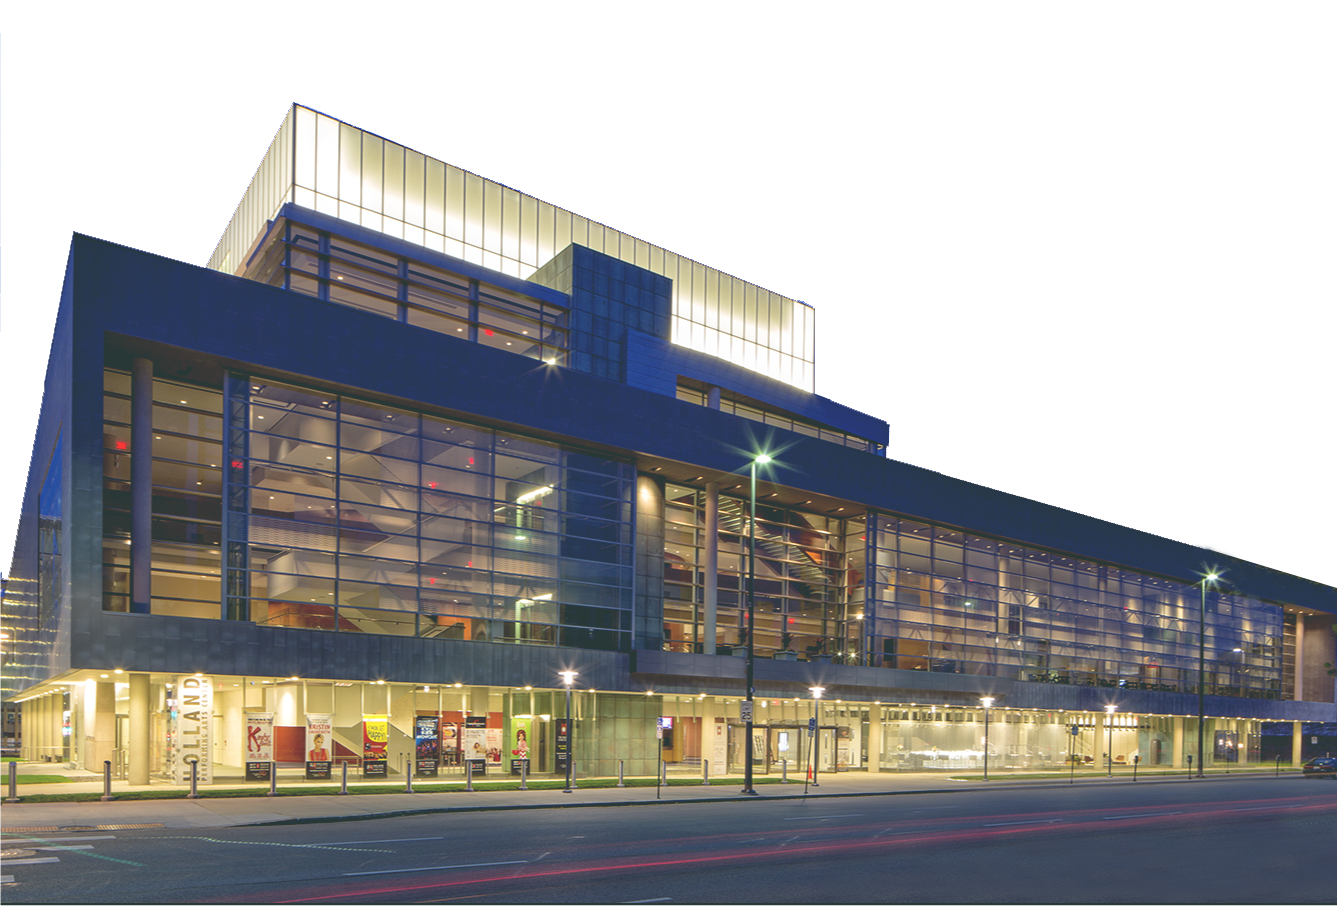
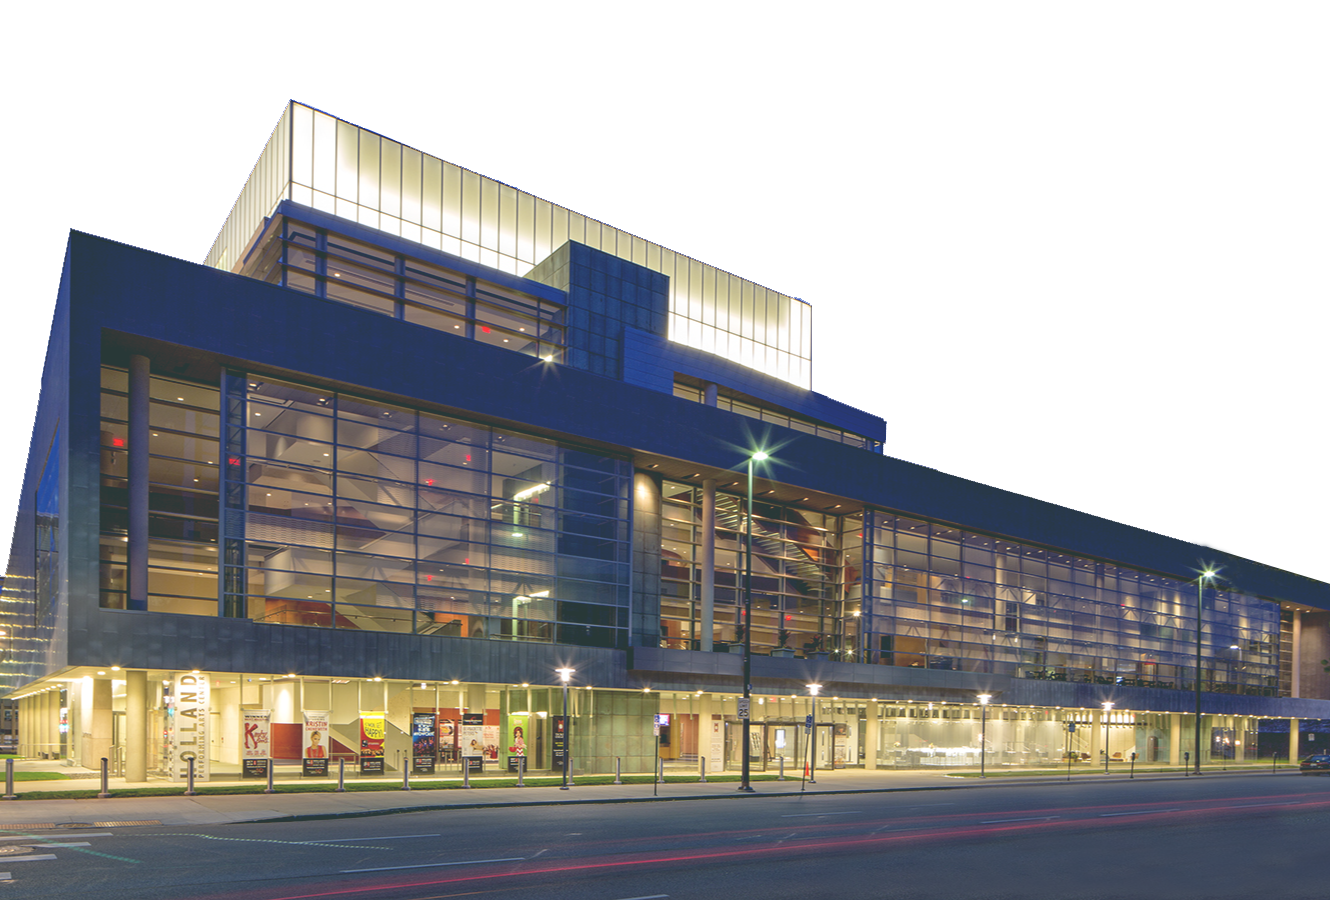
Updates from Zach (adds noscript, moves the intersection observer under the HTML) and a smoldering tweak to the holland image's css

diff --git a/index.html b/index.html
@@ -54,7 +54,7 @@ layout: layout.njk
 	</div>
 	<div class="sg-component-full">
 		<div class="venue">
-			<st-img src="{{ "/assets/img/holland.png" | url }}" alt="Holland Center for Performing Arts" class="venue-img"></st-img>
+			<st-img src="{{ "/assets/img/holland.png" | url }}" alt="Holland Center for Performing Arts" class="venue-img"><noscript><img src="{{ "/assets/img/holland.png" | url }}" alt="Holland Center for Performing Arts" /></noscript></st-img>
 		</div>
 	</div>
 	<div class="sg-component">
@@ -67,8 +67,8 @@ layout: layout.njk
 
 	<div class="sg-component">
 		<div class="sponsors">
-			<div class="sponsors-block"><a href="https://agapered.com/"><st-img src="{{ "/assets/img/sponsors/agape-red.svg" | url }}" alt="Agape Red"></st-img></a></div>
-			<div class="sponsors-block"><a href="https://getflywheel.com/"><st-img src="{{ "/assets/img/sponsors/flywheel.svg" | url }}" alt="Flywheel"></st-img></a></div>
+			<div class="sponsors-block"><a href="https://agapered.com/"><st-img src="{{ "/assets/img/sponsors/agape-red.svg" | url }}" alt="Agape Red"><noscript><img src="{{ "/assets/img/sponsors/agape-red.svg" | url }}" alt="Agape Red" /></noscript></st-img></a></div>
+			<div class="sponsors-block"><a href="https://getflywheel.com/"><st-img src="{{ "/assets/img/sponsors/flywheel.svg" | url }}" alt="Flywheel"><noscript><img src="{{ "/assets/img/sponsors/flywheel.svg" | url }}" alt="Flywheel" /></noscript></st-img></a></div>
 			<div class="sponsors-block"><a href="mailto:sponsor@nejsconf.com">Sponsor NEJS CONF!</a></div>
 		</div>
 	</div>

diff --git a/_includes/script.js b/_includes/script.js
@@ -6,26 +6,3 @@
 	},
 	h=d.documentElement,t=setTimeout(function(){h.className=h.className.replace(/\bwf-loading\b/g,"")+" wf-inactive";},config.scriptTimeout),tk=d.createElement("script"),f=false,s=d.getElementsByTagName("script")[0],a;h.className+=" wf-loading";tk.src='//use.typekit.net/'+config.kitId+'.js';tk.async=true;tk.onload=tk.onreadystatechange=function(){a=this.readyState;if(f||a&&a!="complete"&&a!="loaded")return;f=true;clearTimeout(t);try{Typekit.load(config)}catch(e){}};s.parentNode.insertBefore(tk,s)
 })( document );
-
-
-// Intersection Observer
-const images = Array.from(document.querySelectorAll('.lazy'));
-
-if ('IntersectionObserver' in window) {
-	const observer = new IntersectionObserver(entries => {
-		entries.forEach(entry => {
-			if (entry.intersectionRatio > 0) {
-				entry.target.classList.add('load');
-				observer.unobserve(entry.target);
-			}
-		});
-	});
-
-	images.forEach(image => {
-		observer.observe(image);
-	});
-} else {
-	images.forEach(image => {
-		image.target.classList.add('load');
-	});
-}

diff --git a/_includes/images.js b/_includes/images.js
@@ -1,0 +1,21 @@
+// Intersection Observer
+const images = Array.prototype.slice.call(document.querySelectorAll('.lazy'));
+
+if ('IntersectionObserver' in window) {
+	const observer = new IntersectionObserver(entries => {
+		entries.forEach(entry => {
+			if (entry.intersectionRatio > 0) {
+				entry.target.classList.add('load');
+				observer.unobserve(entry.target);
+			}
+		});
+	});
+
+	images.forEach(image => {
+		observer.observe(image);
+	});
+} else {
+	images.forEach(image => {
+		image.target.classList.add('load');
+	});
+}

diff --git a/_includes/theme.css b/_includes/theme.css
@@ -315,8 +315,11 @@ span.icon {
 }
 .venue-img {
 	display: block;
-	width: 130%;
-	height: 130%;
+	margin: 0 auto;
+	max-width: 1120px;
+}
+.venue-img img {
+	width: 100%;
 }
 .venue::before {
 	content: "";
@@ -328,12 +331,6 @@ span.icon {
 	background-image: url({{ "/assets/img/space-bg.png" | url }});
 	background-color: #2b332d;
 	z-index: -1;
-}
-@media (min-width: 25em) { /* 400px */
-	.venue-img {
-		width: 100%;
-		height: 100%;
-	}
 }
 
 /* Sponsors */
